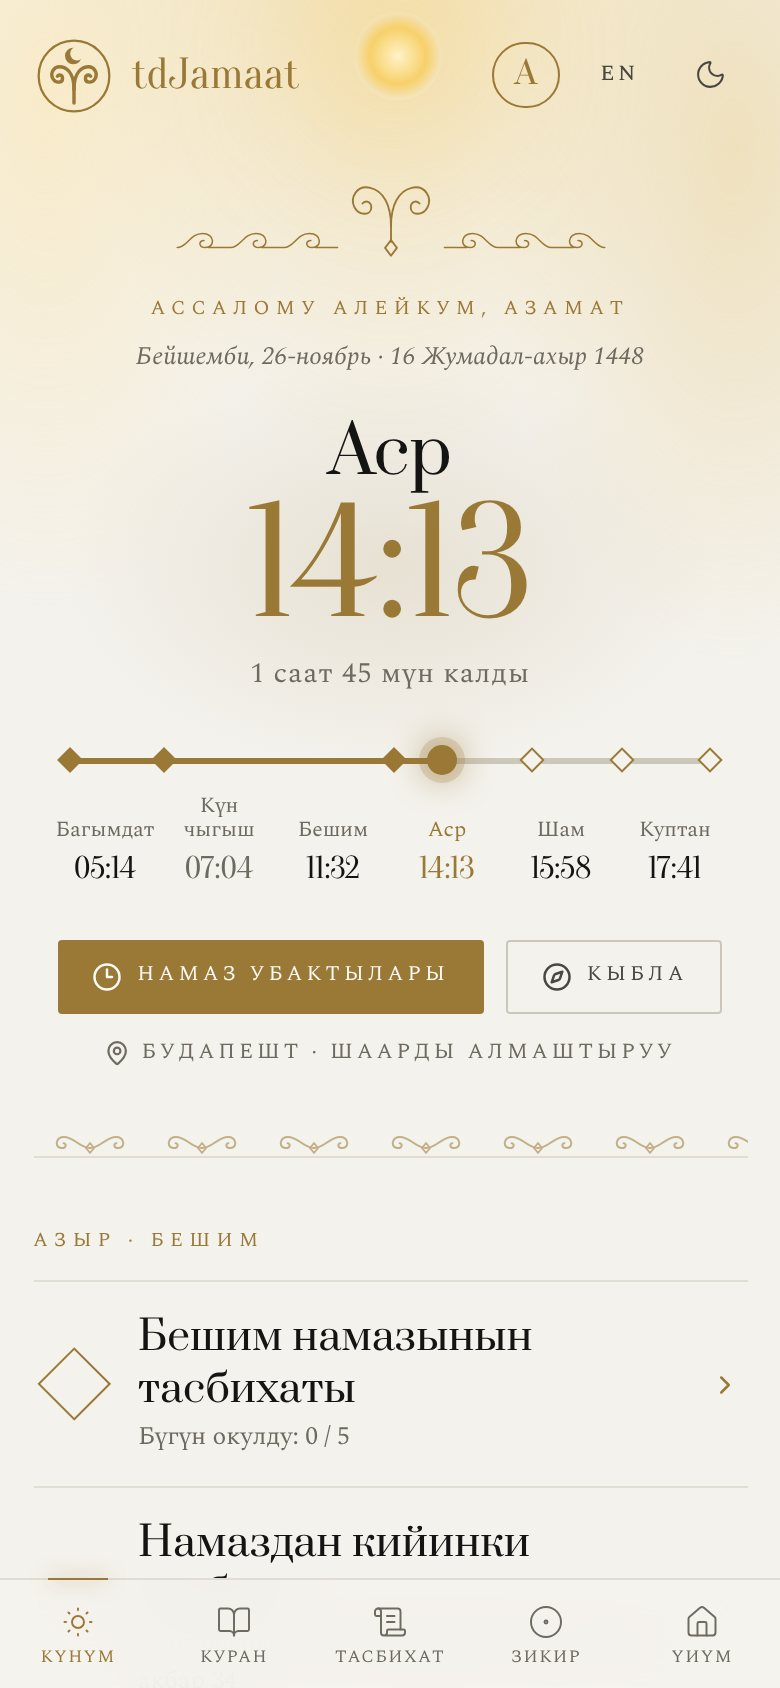
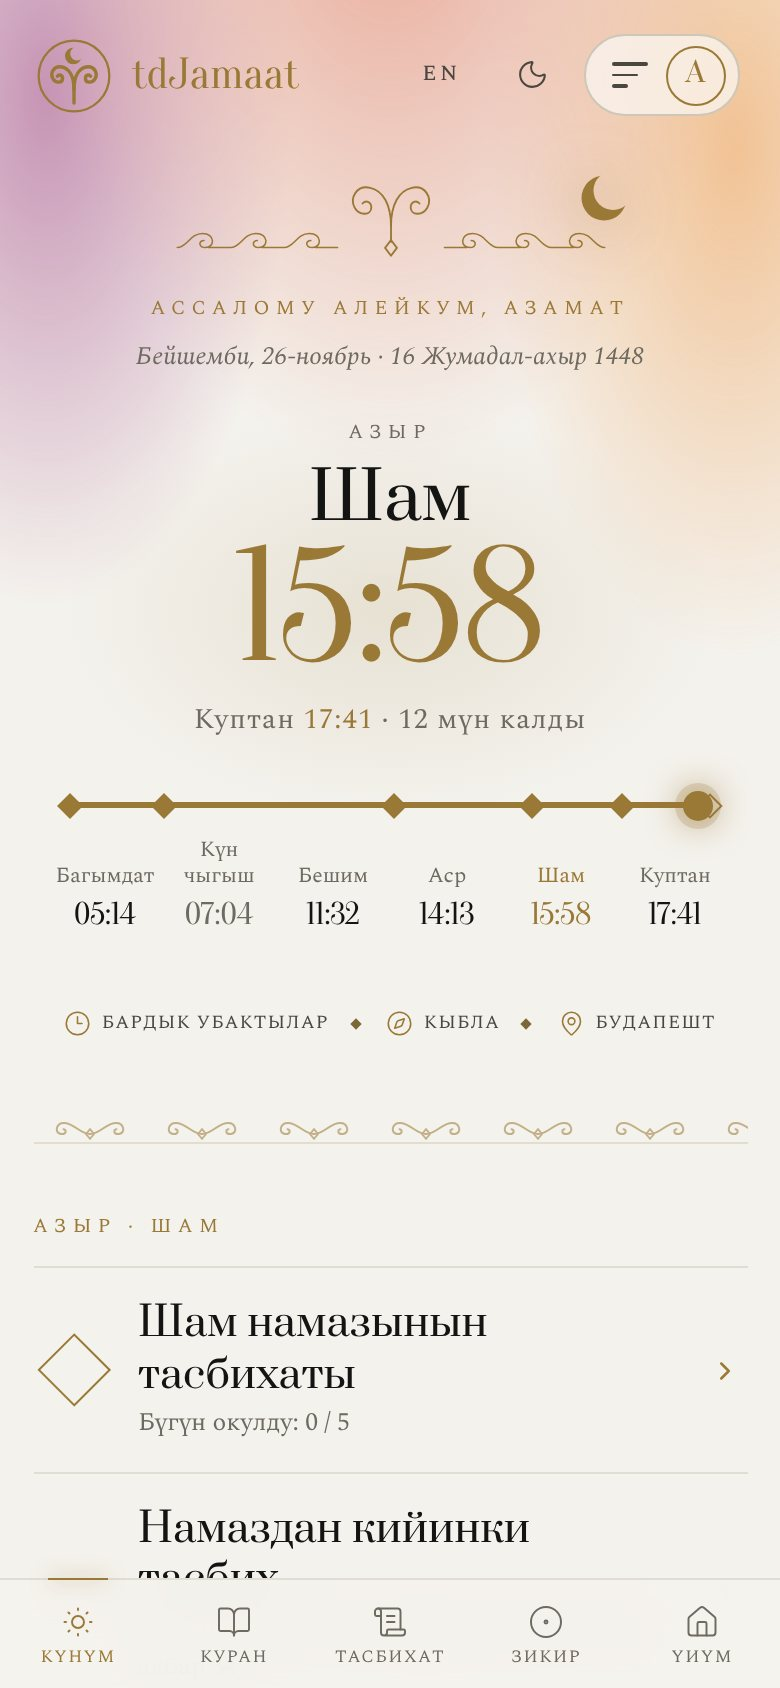
My Day: the ayah of the day framed like a mushaf page, the week and my house as open figures; README: design section, new screenshots

diff --git a/src/app/TodayPage.tsx b/src/app/TodayPage.tsx
@@ -4,7 +4,7 @@
 // a captain or the admin, how the houses stand.
 import React, { Suspense, lazy, useContext, useEffect, useMemo, useState } from 'react';
 import { Check, ChevronRight, Clock3, Compass, MapPin } from 'lucide-react';
-import { Crown, Mark } from '../components/Ornament';
+import { Crown, Mark, Medallion } from '../components/Ornament';
 import type { Theme } from '../theme';
 import { useNow } from '../hooks/useNow';
 import { loadCity } from '../utils/city';
@@ -68,8 +68,10 @@ const DailyAyah: React.FC<{ now: Date }> = ({ now }) => {
     }, [day]);
     if (!state) return <div className="py-10 flex justify-center"><div className="skeleton h-1 w-24" /></div>;
     return (
-        <div className="pt-5">
-            <p dir="rtl" lang="ar" className="quran-text text-center text-[1.75rem] leading-[2.1]" style={{ color: 'var(--text-primary)' }}>{state.text[0]}</p>
+        <div className="ayah-page">
+            <span className="ayah-medallion" aria-hidden="true"><Medallion size={380} /></span>
+            <span className="ayah-corner" aria-hidden="true" /><span className="ayah-corner is-r" aria-hidden="true" />
+            <p dir="rtl" lang="ar" className="quran-text text-center text-[1.75rem] sm:text-[2.05rem] leading-[2.1]" style={{ color: 'var(--text-primary)' }}>{state.text[0]}</p>
             {state.meaning && <p className="mt-4 text-[1rem] leading-relaxed text-center max-w-[36rem] mx-auto" lang={translationLang()} style={{ color: 'var(--text-secondary)' }}>{state.meaning[0]}</p>}
             <div className="text-center mt-3">
                 <button onClick={() => go(`#/quran/${state.surah.n}:${state.ayah}`)} className="hit text-[0.72rem] tracking-[0.18em] uppercase transition-colors hover:text-[var(--gold)]" style={{ color: 'var(--text-muted)' }}>
@@ -171,8 +173,8 @@ const DayPath: React.FC<{ times: Record<PrayerKey, Date>; now: Date; tz: string;
 const Figure: React.FC<{ value: React.ReactNode; label: string; gold?: boolean; first?: boolean; onClick?: () => void }> = ({ value, label, gold, first, onClick }) => {
     const Tag = onClick ? 'button' : 'div';
     return (
-        <Tag onClick={onClick} className={`flex-1 min-w-0 text-center py-4 ${onClick ? 'row-link' : ''}`} style={first ? undefined : { borderLeft: '1px solid var(--border)' }}>
-            <div className="font-display tabular leading-none text-[2.1rem] sm:text-[2.5rem]" style={{ color: gold ? 'var(--gold)' : 'var(--text-primary)' }}>{value}</div>
+        <Tag onClick={onClick} className={`fig ${onClick ? 'is-link' : ''}`} data-first={first || undefined}>
+            <div className="font-display tabular leading-none text-[2.4rem] sm:text-[2.9rem]" style={{ color: gold ? 'var(--gold)' : 'var(--text-primary)' }}>{value}</div>
             <div className="text-[0.66rem] tracking-[0.16em] uppercase mt-2" style={{ color: 'var(--text-muted)' }}>{label}</div>
         </Tag>
     );
@@ -288,7 +290,7 @@ export const TodayPage: React.FC<{ theme: Theme; onToggleTheme: () => void }> = 
 
                 {/* The jamaat week, in the captain's terms, as four large numbers. */}
                 <Section eyebrow={t('Менин аптам')} action={<span className="text-[0.72rem]" style={{ color: 'var(--text-muted)' }}>{formatWeekRange(totals.start, totals.end)}</span>}>
-                    <div className="flex">
+                    <div className="figs">
                         <Figure first value={totals.salawat} label={t('Салават')} gold={totals.salawat > 0} onClick={() => go('#/zikr/salawat')} />
                         <Figure value={totals.zikr} label={t('Зикир')} onClick={() => go('#/zikr')} />
                         <Figure value={`${totals.tasbihat}`} label={t('Тасбихат')} onClick={() => go('#/tasbihat')} />

diff --git a/src/index.css b/src/index.css
@@ -1440,3 +1440,22 @@ button.help-where:hover { border-bottom-color: var(--gold); }
 /* The awards collection: medals on the page, not in a cabinet. */
 .cabinet { background: transparent; border: 0; border-top: 1px solid var(--gold-dim); padding-left: 0; padding-right: 0; }
 .jattoo-badge { border: 0; padding-left: 0; }
+
+/* ---------------------------------------------------------------- my day: lower half */
+/* The ayah of the day as a page of the mushaf: corners, the medallion under the text. */
+.ayah-page { position: relative; isolation: isolate; overflow: hidden; margin-top: 1.4rem; padding: 2.4rem 1rem 1.8rem; }
+.ayah-medallion { position: absolute; left: 50%; top: 50%; transform: translate(-50%, -50%); z-index: -1; color: var(--gold); opacity: .08; pointer-events: none; }
+.ayah-corner { position: absolute; top: 0; left: 0; width: 34px; height: 34px; border-top: 1px solid var(--gold); border-left: 1px solid var(--gold); }
+.ayah-corner.is-r { left: auto; right: 0; border-left: 0; border-right: 1px solid var(--gold); }
+.ayah-page::before, .ayah-page::after { content: ""; position: absolute; bottom: 0; width: 34px; height: 34px; border-bottom: 1px solid var(--gold); }
+.ayah-page::before { left: 0; border-left: 1px solid var(--gold); }
+.ayah-page::after { right: 0; border-right: 1px solid var(--gold); }
+
+/* My week: four figures standing on the page, divided by small diamonds. */
+.figs { display: grid; grid-template-columns: repeat(4, minmax(0, 1fr)); padding: 1.2rem 0 .6rem; }
+.fig { position: relative; min-width: 0; display: flex; flex-direction: column; align-items: center; text-align: center; padding: .4rem .2rem .9rem; }
+.fig:not([data-first])::before { content: ""; position: absolute; left: 0; top: 1.15rem; width: 5px; height: 5px; transform: translateX(-50%) rotate(45deg); background: var(--gold-dim); }
+.fig.is-link:hover .font-display { color: var(--gold) !important; }
+
+/* My house on My Day: the two numbers open, no divider boxes. */
+.mine-sum { position: relative; }

diff --git a/src/app/MemberResults.tsx b/src/app/MemberResults.tsx
@@ -24,13 +24,13 @@ export const MemberSummary: React.FC<{ link: MemberLink }> = ({ link }) => {
         return null;
     }, [data, link]);
     return (
-        <button onClick={() => { window.location.hash = '#/house/me'; }} className="row-link w-full flex items-center gap-2 py-2" style={{ borderBottom: '1px solid var(--border)' }}>
-            <span className="flex-1 text-center py-3">
-                <span className="block font-display tabular text-[2.2rem] leading-none" style={{ color: 'var(--gold)' }}>{row?.me == null ? '—' : fmt(row.me)}</span>
+        <button onClick={() => { window.location.hash = '#/house/me'; }} className="figs w-full items-center" style={{ gridTemplateColumns: '1fr 1fr auto', borderBottom: '1px solid var(--border)' }}>
+            <span className="fig" data-first>
+                <span className="block font-display tabular text-[2.4rem] sm:text-[2.9rem] leading-none" style={{ color: 'var(--gold)' }}>{row?.me == null ? '—' : fmt(row.me)}</span>
                 <span className="block text-[0.66rem] tracking-[0.16em] uppercase mt-2" style={{ color: 'var(--text-muted)' }}>{t('Менин упайым')}</span>
             </span>
-            <span className="flex-1 text-center py-3" style={{ borderLeft: '1px solid var(--border)' }}>
-                <span className="block font-display tabular text-[2.2rem] leading-none" style={{ color: 'var(--text-primary)' }}>{row?.house == null ? '—' : fmt(row.house)}</span>
+            <span className="fig">
+                <span className="block font-display tabular text-[2.4rem] sm:text-[2.9rem] leading-none" style={{ color: 'var(--text-primary)' }}>{row?.house == null ? '—' : fmt(row.house)}</span>
                 <span className="block text-[0.66rem] tracking-[0.16em] uppercase mt-2" style={{ color: 'var(--text-muted)' }}>{link.houseName}</span>
             </span>
             <ChevronRight className="w-4 h-4 flex-shrink-0" style={{ color: 'var(--gold)' }} />

diff --git a/README.md b/README.md
@@ -7,20 +7,21 @@ houses, and every week each house reports how its people did with Quran
 reading, salawat, fasting, night prayer and a few other practices. The app
 turns that into a weekly race between the houses, personal results and a
 season-long record. It also has the things people open every day: prayer
-times, the Quran with a Kyrgyz translation, tasbihat after each prayer and
-a zikr counter.
+times, the Quran with a Kyrgyz translation, tasbihat after each prayer, a
+zikr counter and the Qibla. Those open without an account, so the site
+starts on the day itself; signing in is one tap away.
 
 The interface is in Kyrgyz, with an English version.
 
 <p align="center">
-  <img src="docs/desktop-night.jpg" alt="The week page in the night theme: the leading house and its rating" width="100%">
+  <img src="docs/desktop-night.jpg" alt="The week in the night theme: the leading house and its rating" width="100%">
 </p>
 <p align="center">
-  <img src="docs/phone-today.jpg" alt="Today: next prayer, the day's prayer times, shortcuts" width="31%">
+  <img src="docs/phone-today.jpg" alt="My day: the prayer whose time it is, the day's times, what to read" width="31%">
   &nbsp;
   <img src="docs/phone-results.jpg" alt="A member's own results for the week" width="31%">
   &nbsp;
-  <img src="docs/phone-jamaat.jpg" alt="What the jamaat did together this season" width="31%">
+  <img src="docs/phone-namaz.jpg" alt="Prayer times as the sun's path across the day" width="31%">
 </p>
 <p align="center"><sub>Screenshots use invented names and numbers.</sub></p>
 
@@ -32,7 +33,7 @@ The interface is in Kyrgyz, with an English version.
 | Captain | house password | every house's results | own house's weekly numbers, members' Gmail addresses |
 | CL (cleanliness) | password | houses and weeks, no results | cleanliness ratings |
 | Admin | password | everything | roster, weeks, seasons, plans, chats |
-| Visitor | nothing | the everyday pages only | nothing (counts stay on the phone) |
+| Visitor | nothing | the everyday pages: prayer times, Quran, tasbihat, zikr, Qibla | nothing (counts stay on the phone) |
 
 ## How it is built
 
@@ -62,6 +63,23 @@ chat message or a person's weekly plan, are set by triggers.
 Prayer times are computed on the device with
 [adhan](https://github.com/batoulapps/adhan-js), so they work offline.
 The app installs to the home screen and caches what it needs.
+
+## Design
+
+The look comes from two places: a printed programme (one serif family,
+small letterspaced capitals, gold rules) and the шырдак, the Kyrgyz felt
+carpet. Its ram's-horn motif (кочкор мүйүз) is the logo, the border under
+every page head and the medallion that turns slowly behind page titles.
+Sections open under a gold rule with a diamond instead of sitting in
+cards. Each page also gets its own form: prayer times are drawn as the
+sun's path over the day, the zikrs hang as beads on a thread, the Quran
+page keeps a bookmark with your place in the 604 pages.
+
+There are two themes, worked out separately rather than inverted: warm
+porcelain by day and black with gold at night, with the sky behind the
+header tinted by the hour where you are. Fonts are self-hosted
+(Oranienbaum, Prata and Spectral; the Arabic is set in the King Fahd
+Complex's Uthmanic Hafs font).
 
 ## Scoring
 
@@ -104,7 +122,8 @@ CI runs the same three on every push.
 
 ```
 src/
-  app/            everyday pages: Today, Quran, Tasbihat, Zikr, house, chats
+  app/            everyday pages: My day, prayer times, Quran, Tasbihat,
+                  Zikr, Qibla, house, chats, help
   components/     results site: week, houses, season, awards, jamaat, forms
   services/       Supabase access, one file per area
   utils/          scoring, rankings, awards, seasons (pure, tested)
